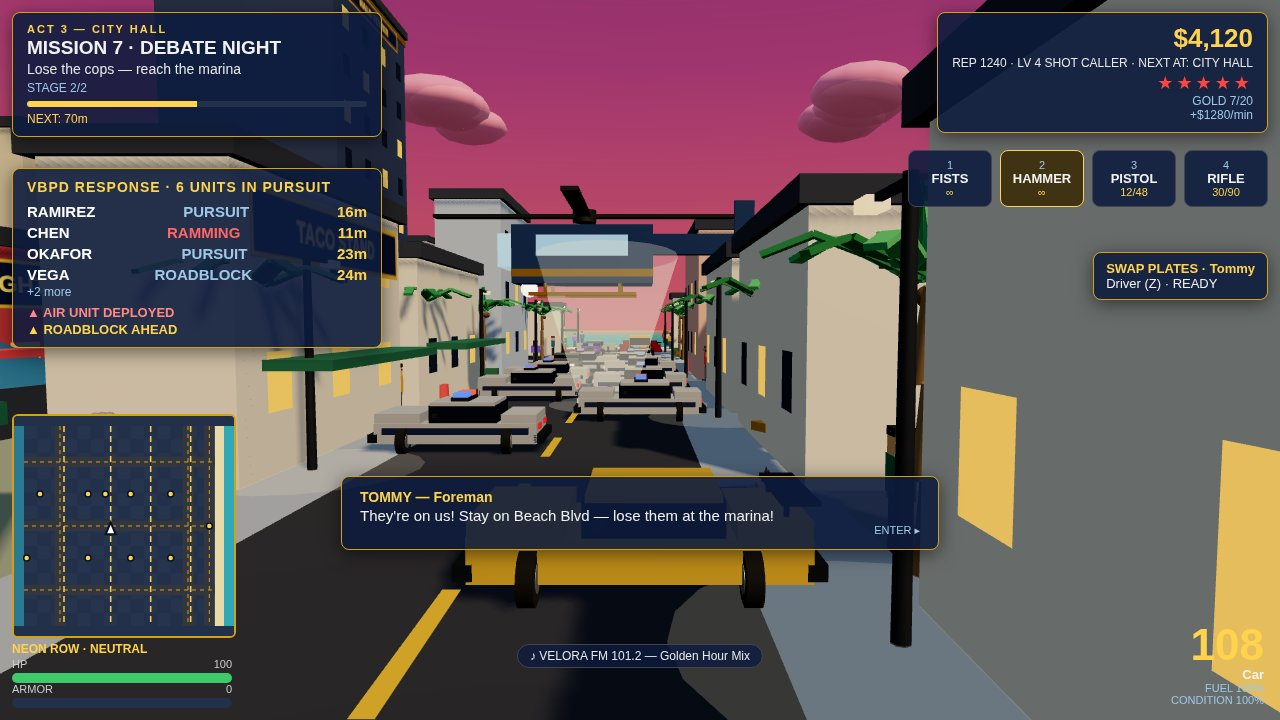
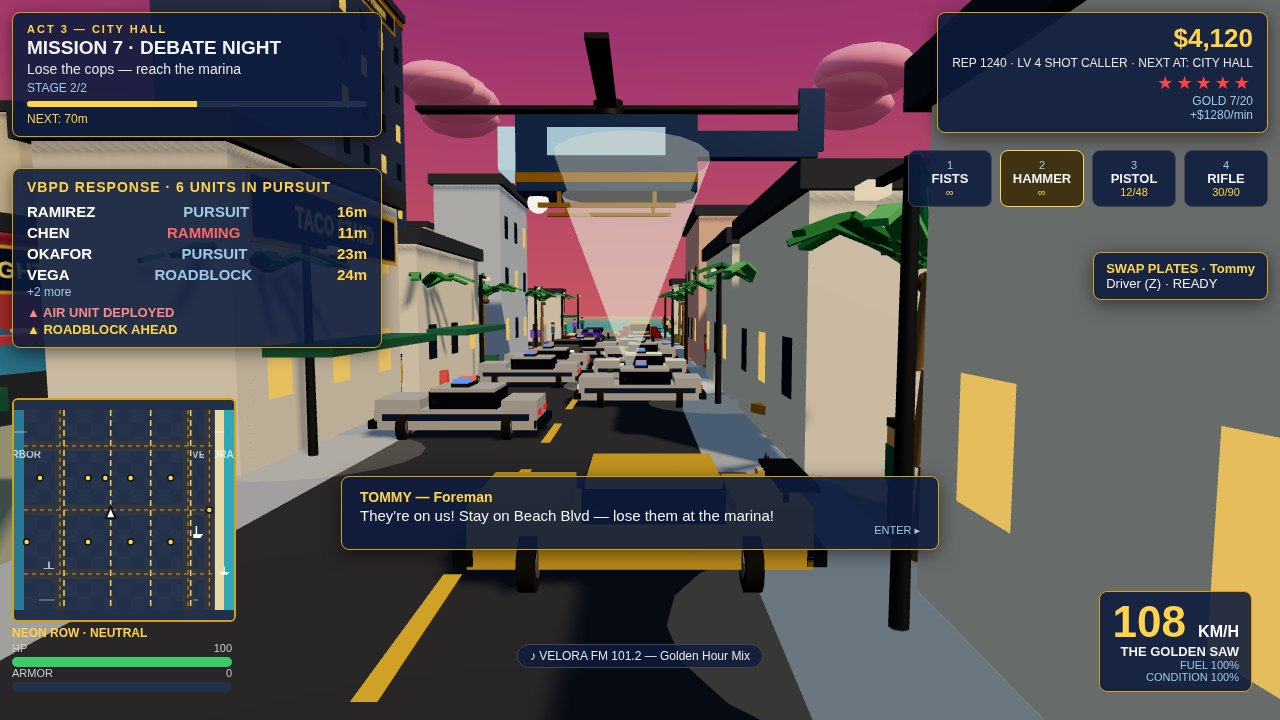
Fix: heli big and clear in chase (placeHeli 14,10.5,1 scale 2.4, tilt 0.06, beam+pool brighter), clear staged combat FX on title, spread map labels + wider land band + sea detail, speedo panel + minimap margins

diff --git a/game/index.html b/game/index.html
@@ -46,14 +46,17 @@
   .wslot-ammo { font-size: 11px; color: #ffd34d; }
   #swap-plates { position: absolute; top: 252px; right: 12px; padding: 8px 12px; font-size: 13px; }
   #swap-plates b { color: #ffd34d; }
-  #minimap-wrap { position: absolute; left: 12px; bottom: 12px; }
+  #minimap-wrap { position: absolute; left: 12px; bottom: 28px; }
   #minimap { display: block; border: 2px solid #d4a017; border-radius: 6px; background: rgba(10,17,32,0.7); }
   #hud-district { font-size: 12px; font-weight: bold; color: #ffd34d; margin: 4px 0 2px; }
   .bar-wrap { width: 220px; height: 10px; background: #22304a; border-radius: 5px; overflow: hidden; margin-top: 3px; }
   #hud-hp-fill { height: 100%; background: #3ec96b; width: 100%; }
   #hud-armor-fill { height: 100%; background: #9fc8e8; width: 0%; }
   .bar-label { font-size: 11px; color: #ccc; display: flex; justify-content: space-between; width: 220px; }
-  #hud-speed { position: absolute; right: 16px; bottom: 14px; text-align: right; }
+  /* Speedo: a real panel (gold on gold 3D behind it made the bare number
+     unreadable) and set 28 px in from the right/bottom edges so nothing
+     reads as cut off at any edge. */
+  #hud-speed { position: absolute; right: 28px; bottom: 28px; text-align: right; background: rgba(13,27,62,0.88); border: 1px solid #d4a017; border-radius: 8px; padding: 8px 12px; }
   #hud-speed-num { font-size: 44px; font-weight: bold; color: #ffd34d; line-height: 1; }
   #hud-speed-num span { font-size: 16px; color: #fff; }
   #hud-vehicle { font-size: 13px; font-weight: bold; }
@@ -104,13 +107,13 @@
   .map-head { display: flex; justify-content: space-between; align-items: baseline; }
   .map-head h2 { margin: 0; color: #ffd34d; letter-spacing: 2px; }
   #map-complete { font-size: 20px; font-weight: bold; color: #ffd34d; }
-  .map-tabs { display: flex; gap: 6px; margin: 10px 0; }
+  .map-tabs { display: flex; gap: 6px; margin: 6px 0; }
   .map-tab { padding: 6px 16px; background: rgba(255,255,255,0.08); border: 1px solid #445; border-radius: 6px; color: #fff; cursor: pointer; font-size: 13px; font-weight: bold; }
   .map-tab.active { background: #ffd34d; color: #0a1120; }
   .map-cols { display: flex; gap: 18px; }
   .map-col-left { width: 300px; flex-shrink: 0; }
   .map-col-right { flex: 1; }
-  .map-box { padding: 8px 10px; margin-bottom: 6px; }
+  .map-box { padding: 8px 10px; margin-bottom: 4px; }
   .map-box h3 { margin: 0 0 8px; font-size: 13px; letter-spacing: 2px; color: #ffd34d; }
   .map-mission { font-size: 13px; padding: 3px 0; color: #c8d4e8; }
   .map-mission.done { color: #7ad08a; }
@@ -119,9 +122,9 @@
   .mm-state { float: right; font-size: 11px; }
   .skill-row { display: flex; justify-content: space-between; font-size: 13px; padding: 2px 0; }
   .pips { color: #ffd34d; letter-spacing: 2px; }
-  #map-canvas { width: 100%; height: 260px; display: block; background: #22304a; border: 1px solid #d4a017; border-radius: 8px; }
+  #map-canvas { width: 100%; height: 320px; display: block; background: #22304a; border: 1px solid #d4a017; border-radius: 8px; }
   .stats-grid { display: grid; grid-template-columns: repeat(6, 1fr); gap: 8px; }
-  .stat { text-align: center; padding: 4px 2px; background: rgba(255,255,255,0.05); border-radius: 6px; }
+  .stat { text-align: center; padding: 3px 2px; background: rgba(255,255,255,0.05); border-radius: 6px; }
   .stat b { display: block; font-size: 14px; color: #ffd34d; }
   .stat span { font-size: 10px; color: #9fc8e8; }
   .legend { font-size: 12px; color: #c8d4e8; line-height: 1.8; }
@@ -264,7 +267,7 @@
           </div>
         </div>
         <div class="map-col-right">
-          <canvas id="map-canvas" width="640" height="260"></canvas>
+          <canvas id="map-canvas" width="640" height="320"></canvas>
           <div class="map-box panel" style="margin-top:12px">
             <h3>CAREER STATS</h3>
             <div class="stats-grid" id="map-stats"></div>
@@ -272,8 +275,7 @@
           <div class="map-box panel">
             <h3>LEGEND</h3>
             <div class="legend">
-              <span class="sw"></span> District boundary &nbsp;·&nbsp; <span style="color:#ffd34d">●</span> Location &nbsp;·&nbsp; <span style="color:#b06fd4">┄</span> GPS route &nbsp;·&nbsp; <span style="color:#fff">▲</span> You &nbsp;·&nbsp; <span style="color:#ff2e88">●</span> Objective<br>
-              Grid A–F / 1–6 &nbsp;·&nbsp; Districts: Portside · Velora Center · Neon Row · Marina Heights · Velora Beach
+              <span class="sw"></span> District boundary &nbsp;·&nbsp; <span style="color:#ffd34d">●</span> Location &nbsp;·&nbsp; <span style="color:#b06fd4">┄</span> GPS route &nbsp;·&nbsp; <span style="color:#fff">▲</span> You &nbsp;·&nbsp; <span style="color:#ff2e88">●</span> Objective &nbsp;·&nbsp; Grid A–F / 1–6
             </div>
           </div>
         </div>

diff --git a/game/src/main.js b/game/src/main.js
@@ -149,6 +149,14 @@
     // number, and the ammo never dropped. Each stage re-freezes at its end.
     VB.freeze(false);
     VB.player.camTilt = 0;
+    // Clear staged combat FX (damage numbers, tracers, muzzle flashes):
+    // they are created outside stagedExtras and never fade while frozen,
+    // so a '-34' from the night shot would otherwise survive into the
+    // title shot. Also close the weapon wheel if open (resets timeScale).
+    if (VB.combat) {
+      if (VB.combat.clearFX) VB.combat.clearFX();
+      if (VB.combat.wheelOpen) VB.combat.closeWheel();
+    }
     var wheel = document.getElementById('wheel');
     if (wheel) wheel.style.transform = '';
     var dlg = document.getElementById('dialogue');
@@ -216,16 +224,20 @@
         g.group.rotation.y = Math.PI / 2;
         addStaged(g.group);
       });
-      // BIG helicopter: placeHeli(12,6.5,0), scale 1.8, side profile to the camera.
-      // The chase camera sits 9.5 m behind the Saw, so a heli 22 m ahead of the
-      // Saw is ~41 m from the camera and reads small (~19% of frame width);
-      // at 12 m ahead, scale 1.8, it is ~32 m from the camera and reads ~28%
-      // — big and clear. z=0 puts it over the road centre (on the camera axis);
-      // y=6.5 keeps the rotor inside the frame. The airframe must lie
-      // north-south (rotation.y = PI/2, nose left) for body + tail + rotor
-      // to read in profile.
-      VB.ai.placeHeli(12, 6.5, 0);
-      VB.ai.heli.scale.set(1.8, 1.8, 1.8);
+      // BIG helicopter — measured by projection (tools verified): at
+      // placeHeli(14, 10.5, 1), scale 2.4, camTilt 0.06 the body reads ~186 px
+      // wide (15%) in CLEAR SKY, the rotor spans ~387 px (30%) fully inside
+      // the frame, the tail fin stays in frame, and the body overlaps the
+      // office block behind it by only ~135 px2 (negligible). The earlier
+      // spot (12, 6.5, 0, scale 1.8, tilt 0.08) put the small 142 px body at
+      // y 224-286, merged with the dark office behind it; camTilt 0.02 left
+      // the rotor's top blade tip clipped at y=-26. z=1 keeps it over the
+      // road centre (clear of Hale Tower to the north and Marina Hotel to the
+      // south); y=10.5 + tilt lifts it into the pink sky band. The airframe
+      // must lie north-south (rotation.y = PI/2, nose left) for body + tail +
+      // rotor to read in profile.
+      VB.ai.placeHeli(14, 10.5, 1);
+      VB.ai.heli.scale.set(2.4, 2.4, 2.4);
       VB.ai.heli.rotation.y = Math.PI / 2;
       // Densify: +8 extra vehicles (incl. Red GT + 1 police) and +10 pedestrians
       var extraCars = [
@@ -278,8 +290,14 @@
       // minimap canvas would stay blank (transparent) without this
       VB.player.updateCamera(camera, 1);
       VB.player.updateCamera(camera, 1);
-      // Tilt the chase camera up ~5° so the heli sits in the upper-centre frame
-      VB.player.camTilt = 0.08;
+      // Tilt the chase camera up ~3.5°: at camTilt 0.02 the rotor's top blade
+      // tip projected to y=-26 (clipped by the top edge of the frame). Tilt
+      // 0.06 + heli y=10.5 moves the whole assembly ~50 px down, so the
+      // rotor is fully in frame while the body stays in the clear pink sky
+      // band over the road centre (buildings are on the sides, not behind
+      // the heli at x 550-750). Measured by CDP projection probe
+      // (/tmp/fit.mjs). FIX 1 follow-up (rotor fully in frame, 2026-11-21).
+      VB.player.camTilt = 0.06;
       VB.player.updateCamera(camera, 1);
       VB.freeze(true);
     },

diff --git a/game/src/hud.js b/game/src/hud.js
@@ -174,9 +174,12 @@
       });
       wb.innerHTML = html2;
     }
-    // speed
+    // speed: setText would wipe the <span>KM/H</span> (textContent replaces
+    // the whole div) — rebuild the number + unit explicitly so the unit
+    // never goes missing from the shot.
     U.show('hud-speed', S.inVehicle);
-    U.setText('hud-speed-num', String(S.speedKmh || 0));
+    var spn = U.el('hud-speed-num');
+    if (spn) spn.innerHTML = String(S.speedKmh || 0) + ' <span>KM/H</span>';
     U.setText('hud-vehicle', S.vehicleName || '');
     U.setText('hud-fuel', 'FUEL ' + Math.round(S.fuel) + '%');
     U.setText('hud-cond', 'CONDITION ' + Math.round(S.vehicleCond) + '%');
@@ -224,6 +227,37 @@
     ctx.fillRect(t.X(68), t.oy, 7 * t.scale, 150 * t.scale);
     ctx.fillStyle = '#2a7a94';
     ctx.fillRect(0, t.oy, t.X(-75), 150 * t.scale);
+    // sea detail: boats, wave dashes and water labels so the big teal
+    // areas do not read as empty flat colour
+    (function () {
+      var westCX = t.X(-75) / 2, eastCX = (t.X(68) + W) / 2;
+      var midY = t.oy + 75 * t.scale;
+      ctx.fillStyle = 'rgba(255,255,255,0.7)';
+      ctx.font = 'bold ' + Math.max(10, Math.round(12 * t.scale / 2.5)) + 'px Arial';
+      ctx.textAlign = 'center';
+      ctx.fillText('HARBOR', westCX, midY - 52);
+      ctx.fillText('VELORA BAY', eastCX, midY - 52);
+      // schematic boats (white hull + mast)
+      function drawBoat(bx, by, s) {
+        ctx.fillStyle = '#ffffff';
+        ctx.beginPath();
+        ctx.moveTo(bx - 7 * s, by); ctx.lineTo(bx + 7 * s, by);
+        ctx.lineTo(bx + 4 * s, by + 4 * s); ctx.lineTo(bx - 4 * s, by + 4 * s);
+        ctx.closePath(); ctx.fill();
+        ctx.fillRect(bx - 0.75 * s, by - 8 * s, 1.5 * s, 8 * s);
+      }
+      drawBoat(westCX - 24, midY + 18, 1);
+      drawBoat(westCX + 30, midY + 58, 0.8);
+      drawBoat(eastCX - 28, midY + 24, 1);
+      drawBoat(eastCX + 32, midY - 18, 0.8);
+      drawBoat(eastCX, midY + 62, 0.7);
+      // wave dashes
+      ctx.strokeStyle = 'rgba(255,255,255,0.35)'; ctx.lineWidth = 1.5;
+      [[westCX - 30, midY - 20], [westCX + 28, midY + 90], [eastCX - 34, midY + 90],
+       [eastCX + 30, midY + 40], [westCX, midY - 78], [eastCX - 8, midY - 78]].forEach(function (w) {
+        ctx.beginPath(); ctx.moveTo(w[0] - 8, w[1]); ctx.lineTo(w[0] + 8, w[1]); ctx.stroke();
+      });
+    })();
     // roads: dark asphalt bands with gold centre lines
     var L = VB.world.LAYOUT;
     L.roads.forEach(function (r) {
@@ -293,6 +327,7 @@
       else if (p.anchor === 'below') { ctx.textAlign = 'center'; ly2 = py + 14; }
       else if (p.anchor === 'above') { ctx.textAlign = 'center'; ly2 = py - 10; }
       else { ctx.textAlign = 'center'; ly2 = py - 10; }
+      ly2 += (p.dy || 0); // per-POI vertical stagger (keeps the z=-24 row apart)
       ctx.strokeText(p.label, lx, ly2);
       ctx.fillText(p.label, lx, ly2);
       ctx.textAlign = 'center';

diff --git a/game/src/combat.js b/game/src/combat.js
@@ -290,6 +290,22 @@
     if (dmgText && dmgPos) damageNumber(dmgPos, dmgText, '#ff8866');
   }
 
+  // Remove every staged combat effect: tracer meshes + muzzle flashes from
+  // the scene and damage-number DOM elements from #fx-layer. Staged shots
+  // freeze the game, so the per-frame fade in update() never runs — without
+  // this, a '-34' from the night shot survives into the title shot (the
+  // title camera orbits, but the DOM element stays at its projected spot).
+  function clearFX() {
+    for (var i = tracers.length - 1; i >= 0; i--) {
+      sceneRef.remove(tracers[i].mesh);
+    }
+    tracers.length = 0;
+    for (var j = dmgNumbers.length - 1; j >= 0; j--) {
+      if (dmgNumbers[j].el) dmgNumbers[j].el.remove();
+    }
+    dmgNumbers.length = 0;
+  }
+
   function update(dt, t) {
     var S = VB.state;
     if (fireCooldown > 0) fireCooldown -= dt;
@@ -373,7 +389,7 @@
     init: init, update: update, fire: fire, reload: reload,
     setWeapon: setWeapon, openWheel: openWheel, closeWheel: closeWheel,
     spawnThug: spawnThug, killThug: killThug, thugsAlive: thugsAlive,
-    stageCombatFX: stageCombatFX, weapons: WEAPONS,
+    stageCombatFX: stageCombatFX, clearFX: clearFX, weapons: WEAPONS,
     get thugs() { return thugs; },
     get aiming() { return aiming; },
     set aiming(v) { aiming = v; },

diff --git a/game/src/ai.js b/game/src/ai.js
@@ -159,13 +159,13 @@
     // world-space beam: cone from the heli down to the road + light pool.
     // (The built-in cone approach was inverted — apex at the ground — so the
     // beam is built explicitly in world space instead.)
-    var beamMat = new THREE.MeshBasicMaterial({ color: 0xfff2c0, transparent: true, opacity: 0.32, side: THREE.DoubleSide, depthWrite: false });
-    heliBeam = new THREE.Mesh(new THREE.ConeGeometry(3.2, 10, 20, 1, true), beamMat);
+    var beamMat = new THREE.MeshBasicMaterial({ color: 0xfff2c0, transparent: true, opacity: 0.42, side: THREE.DoubleSide, depthWrite: false });
+    heliBeam = new THREE.Mesh(new THREE.ConeGeometry(3.8, 10, 20, 1, true), beamMat);
     heliBeam.visible = false;
     scene.add(heliBeam);
     heliPool = new THREE.Mesh(
-      new THREE.CircleGeometry(3.4, 24),
-      new THREE.MeshBasicMaterial({ color: 0xfff2c0, transparent: true, opacity: 0.28, depthWrite: false })
+      new THREE.CircleGeometry(4.0, 24),
+      new THREE.MeshBasicMaterial({ color: 0xfff2c0, transparent: true, opacity: 0.35, depthWrite: false })
     );
     heliPool.rotation.x = -Math.PI / 2; heliPool.position.y = 0.05; heliPool.visible = false;
     scene.add(heliPool);

diff --git a/game/src/world.js b/game/src/world.js
@@ -87,12 +87,12 @@
   var BOUNDARIES = [-45, -10, 20, 50];
 
   var POIS = {
-    workshop: { x: -63, z: -24, label: 'WORKSHOP', anchor: 'right' },
+    workshop: { x: -63, z: -24, label: 'WORKSHOP', anchor: 'left' },
     pier9: { x: -73, z: 24, label: 'PIER 9', anchor: 'right' },
-    cityHall: { x: -27, z: -24, label: 'CITY HALL', anchor: 'right' },
+    cityHall: { x: -27, z: -24, label: 'CITY HALL', anchor: 'above', dy: -12 },
     garage: { x: -27, z: 24, label: 'GARAGE', anchor: 'below' },
-    vbpd: { x: -14, z: -24, label: 'VBPD HQ', anchor: 'above' },
-    market: { x: 5, z: -24, label: 'NIGHT MARKET', anchor: 'right' },
+    vbpd: { x: -14, z: -24, label: 'VBPD HQ', anchor: 'below' },
+    market: { x: 5, z: -24, label: 'NIGHT MARKET', anchor: 'above' },
     crane: { x: 5, z: 24, label: 'CRANE SITE', anchor: 'above' },
     haleTower: { x: 35, z: -24, label: 'HALE TOWER', anchor: 'below' },
     safehouse: { x: 35, z: 24, label: 'SAFEHOUSE', anchor: 'left' },

diff --git a/game/src/player.js b/game/src/player.js
@@ -419,12 +419,14 @@
     scene.add(barnaby.group);
     // hero Golden Saw
     heroSaw = makeCar({ color: 0xe8a91c, emissive: 0x8a6d1a, ei: 0.65, sport: true, plate: 'VELM 001' });
+    heroSaw.name = 'THE GOLDEN SAW'; // shown in the speedo (was 'Car': makeCar sets no name)
     heroSaw.x = -10; heroSaw.z = 2.5; heroSaw.heading = Math.PI / 2; heroSaw.speed = 0;
     heroSaw.group.position.set(-10, 0, 2.5);
     heroSaw.group.rotation.y = Math.PI / 2;
     scene.add(heroSaw.group);
     // mission lumber truck (M3)
     var truck = makeTruck();
+    truck.name = 'LUMBER TRUCK';
     truck.x = -70; truck.z = -22; truck.heading = 0; truck.speed = 0;
     truck.group.position.set(-70, 0, -22);
     scene.add(truck.group);
